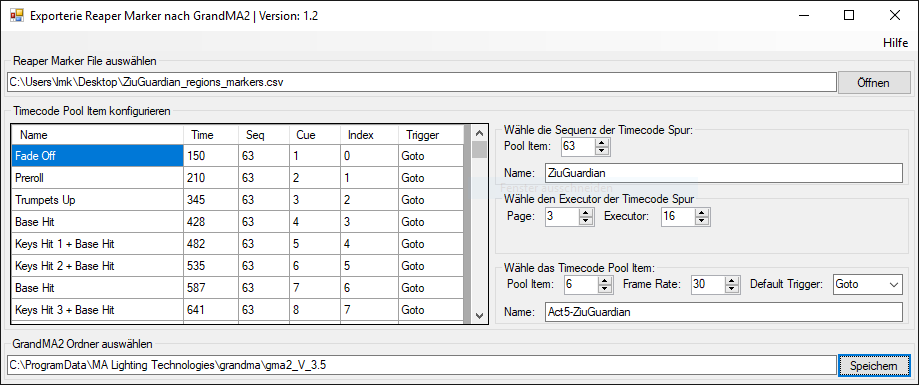
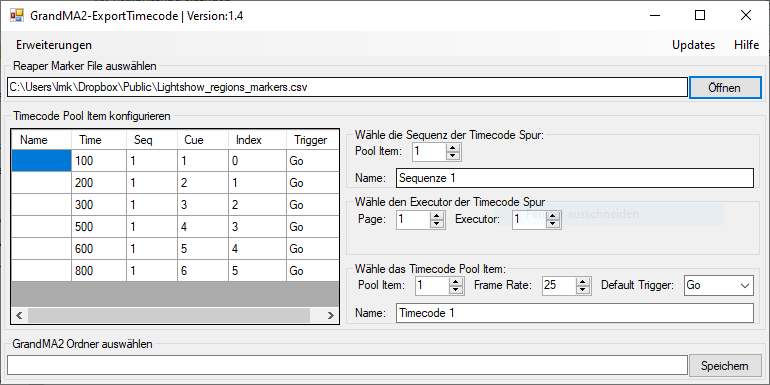
Updated README.md

diff --git a/README.md b/README.md
@@ -17,6 +17,11 @@ GrandMA2-ExportTimecode liest diese Datei ein und zeigt sie dem Nutzer an. Diese
 Zeiten anpassen, Nummern anpassen oder den Namen ändern. Zudem können weitere Einstellungen vorgenommen werden.
 Danach wird auf einem USB-Stick oder lokal ein Makro gespeichert. Dabei muss nur der GrandMA2-Ordner ausgewält werden, keine Unterverzeichniss!
 Dieses Makro wird in die GrandMA2-Software importiert und dann ausgeführt. Es importiert automatisch die Marker, speichert die passende Cues und erstellt das passende Timecode-Poolitem.
+Alternativ gibt es mit der neuen Version 1.4 auch die Möglichkeit, seine Sequenz direkt von dem ausführenden Rechner übers Netzwerk auf der Konsole zu erstellen.
+Es ist geplant, dass man zudem auch noch übers Netzwerk das Timecode-Poolitem erstellen kann.
 
 ## Wie bekomm ich das Tool?
 In dem Ordner ExportReaperMarkersToGrandMA2/bin/Release/ die Datei [ExportReaperMarkersToGrandMA2.exe](ExportReaperMarkersToGrandMA2/bin/Release/ExportReaperMarkersToGrandMA2.exe) runterladen und ausführen!
+
+##Bei Fragen?
+Bei Fragen gerne einfach an lk@lightemotions.net wenden und ich werde gerne weiterhelfen!
